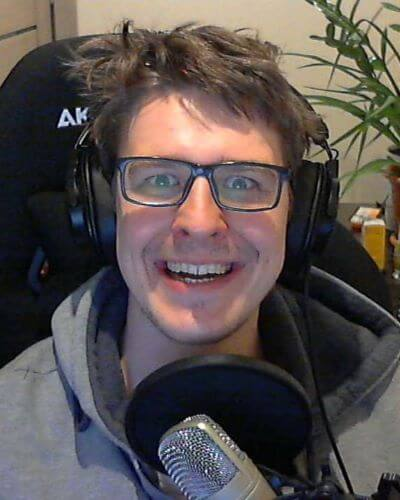
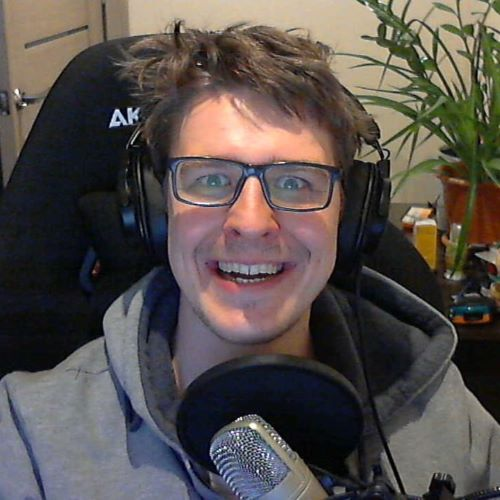
completed header hires layout + changed photos

diff --git a/index.html b/index.html
@@ -6,7 +6,7 @@
   <link rel="preconnect" href="https://fonts.googleapis.com">
   <link rel="preconnect" href="https://fonts.gstatic.com" crossorigin>
   <link
-    href="https://fonts.googleapis.com/css2?family=Playfair:ital,opsz,wght@0,5..1200,300..900;1,5..1200,300..900&family=Roboto:ital,wght@0,100;0,300;0,400;0,500;0,700;0,900;1,100;1,300;1,400;1,500;1,700;1,900&display=swap"
+    href="https://fonts.googleapis.com/css2?family=Playfair+Display:ital,wght@0,400..900;1,400..900&family=Roboto:ital,wght@0,100;0,300;0,400;0,500;0,700;0,900;1,100;1,300;1,400;1,500;1,700;1,900&display=swap"
     rel="stylesheet">
   <!-- Google Font import /-->
   <meta charset="UTF-8" />
@@ -21,8 +21,8 @@
     <header class="flex-container-column">
       <div class="header-card card flex-container">
         <div class="header-photo-container">
-          <img class="header-photo" src="./assets/img/profile-img.jpg" />
           <h1 class="header-label">Roshkovan Dmitrii</h1>
+          <img class="header-photo card" src="./assets/img/profile-img.jpg" />
         </div>
         <div class="header-text-container">
           <h2 class="card-label">About me</h2>
@@ -40,14 +40,14 @@
             electric
             guitar.
           </p>
-        </div>
-        <div class="links-container">
-          <a href="https://github.com/d1r0l">
-            <img class="icon" src="./assets/icons/github.svg" alt="">
-          </a>
-          <a href="https://www.linkedin.com/in/d1r0l/">
-            <img class="icon" src="./assets/icons/linkedin.svg" alt="">
-          </a>
+          <div class="links-container">
+            <a href="https://github.com/d1r0l">
+              <img class="icon" src="./assets/icons/github.svg" alt="">
+            </a>
+            <a href="https://www.linkedin.com/in/d1r0l/">
+              <img class="icon" src="./assets/icons/linkedin.svg" alt="">
+            </a>
+          </div>
         </div>
       </div>
     </header>
@@ -57,32 +57,36 @@
       </div>
     </section>
     <footer class="flex-container-column">
-      <div>
-        <h2>Contact me</h2>
-        <p>Please get in touch if you think our work could be mutually benefitial!</p>
-        <p>
-          str. Ştefan cel Mare 43
-          <br />
-          Costești, Ialoveni, Republica Moldova, MD-6813
-        </p>
-        <p>
-          <img class="icon" src="./assets/icons/phone.svg" alt="">
-          <a href="tel:+37367568281">+373 675 68 281</a>
-        </p>
-        <p>
-          <img class="icon" src="./assets/icons/mail.svg" alt="">
-          <a href="mailto:roshkovan.d@gmail.com">roshkovan.d@gmail.com</a>
-        </p>
-        <div class="links-container">
-          <a href="https://github.com/d1r0l">
-            <img class="icon" src="./assets/icons/github.svg" alt="">
-          </a>
-          <a href="https://www.linkedin.com/in/d1r0l/">
-            <img class="icon" src="./assets/icons/linkedin.svg" alt="">
-          </a>
+      <div class="flex-container-column">
+        <div class="flex-container">
+          <div class="footer-text-container flex-container-column">
+            <h2>Contact me</h2>
+            <p>Please get in touch if you think our work could be mutually benefitial!</p>
+            <p>
+              str. Ştefan cel Mare 43
+              <br />
+              Costești, Ialoveni, Republica Moldova, MD-6813
+            </p>
+            <p>
+              <img class="icon" src="./assets/icons/phone.svg" alt="">
+              <a href="tel:+37367568281">+373 675 68 281</a>
+            </p>
+            <p>
+              <img class="icon" src="./assets/icons/mail.svg" alt="">
+              <a href="mailto:roshkovan.d@gmail.com">roshkovan.d@gmail.com</a>
+            </p>
+            <div class="links-container">
+              <a href="https://github.com/d1r0l">
+                <img class="icon" src="./assets/icons/github.svg" alt="">
+              </a>
+              <a href="https://www.linkedin.com/in/d1r0l/">
+                <img class="icon" src="./assets/icons/linkedin.svg" alt="">
+              </a>
+            </div>
+          </div>
+          <img class="footer-photo" src="./assets/img/profile-img-2.jpg" />
         </div>
       </div>
-      <img class="footer-photo" src="./assets/img/profile-img-2.jpg" />
       <button id="back-to-top" title="Back to top">Back to top</button>
     </footer>
   </div>

diff --git a/style.css b/style.css
@@ -49,7 +49,7 @@ table {
 /* CSS Reset End */
 
 :root {
-  --main-font: 'Playfair', 'Georgia', serif;
+  --main-font: 'Playfair Display', 'Georgia', serif;
   --secondary-font: 'Roboto', 'Arial', 'Helvetica', sans-serif;
   --main-color: #6f8b6e;
   --background-color: #ffffff;
@@ -104,21 +104,20 @@ footer {
   gap: 4rem;
 }
 
+.flex-container {
+  display: flex;
+  gap: 1rem;
+}
+
 .flex-container-column {
   display: flex;
   flex-direction: column;
   gap: 1rem;
 }
 
-.flex-container {
-  display: flex;
-  gap: 1rem;
-}
-
 header {
   position: relative;
   overflow: hidden;
-  z-index: -1;
 }
 
 header::after {
@@ -126,13 +125,42 @@ header::after {
   display: block;
   position: absolute;
   left:0;
-  top: 90%;
+  top: 50%;
   width: 100%;
-  height: 1000%;
-  transform-origin: bottom left;
-  transform: skewY(-5deg);
-  background-color: red;
-  z-index: -1;
+  height: 50%;
+  background-image: linear-gradient(
+    to top left,
+    var(--background-color) 50%,
+    var(--main-color) 50%
+  );
+  z-index: 1;
+}
+
+.header-card {
+  padding: 2rem;
+  gap: 2rem;
+  z-index: 2;
+}
+
+.header-label {
+  font-size: 3rem;
+  color: var(--font-light-color);
+}
+
+.header-card .card-label {
+  margin-bottom: 1rem;
+}
+
+.header-card .links-container {
+  margin-top: 1rem;
+  font-size: 1rem;
+  text-align: right;
+  justify-self: flex-end;
+}
+
+.header-card .icon {
+  height: 2rem;
+  width: auto;
 }
 
 section {
@@ -140,11 +168,8 @@ section {
   justify-content: center;
 }
 
-.header-photo,
 .footer-photo {
   align-self: end;
-  height: auto;
-  width: 15rem;
 }
 
 .icon {
@@ -166,40 +191,6 @@ section {
   white-space: nowrap;
   overflow: hidden;
   text-overflow: ellipsis;
-}
-
-.header-card {
-  padding: 2rem;
-  margin: 4rem;
-  gap: 2rem;
-}
-
-.header-card .links-container {
-  font-size: 1rem;
-  align-self: flex-end;
-}
-
-.header-card .icon {
-  height: 2rem;
-  width: auto;
-}
-
-.header-photo-container {
-  position: relative;
-}
-
-.header-photo {
-  object-fit: contain;
-  margin-right: 4rem;
-  width: 16rem;
-  height: 100%;
-  transform: scale(1.5);
-}
-
-.header-label {
-  position: absolute;
-  top: 0;
-  left: 0;
 }
 
 .projects-grid {
@@ -264,3 +255,45 @@ section {
   width: auto;
 }
 
+.footer-text-container {
+  flex:1;
+}
+
+.footer-photo {
+  height: 30rem;
+  width: auto;
+  
+}
+
+@media (min-width: 1200px) {
+  .header-card {
+    margin-block: 4rem;
+  }
+
+  .header-photo-container {
+    position: relative;
+    margin-left: 2rem;
+    margin-right: 4rem;
+    height: 20rem;
+  }
+
+  .header-label {
+    position: absolute;
+    z-index: 1;
+    bottom: -3rem;
+    width: 200%;
+    transform: translateX(-25%);
+    text-align: center;
+  }
+
+  .header-photo {
+    height: 100%;
+    width: auto;
+    float: left;
+    transform: scale(1.4);
+  }
+
+  .header-card-text-container {
+    clear: right;
+  }
+} 
